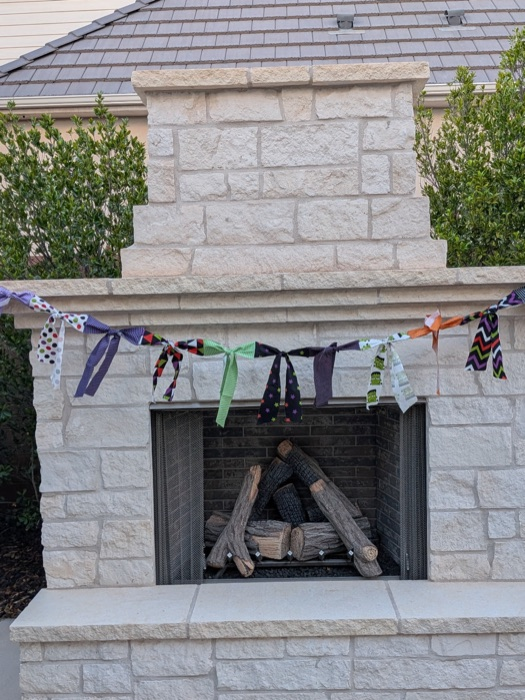
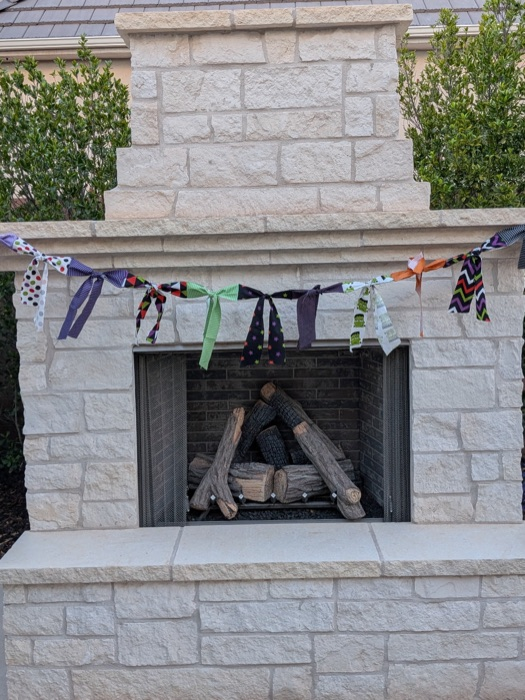
Strip the shop back: names and prices, no numbers, no measurements
The hero plate says Halloween, because Halloween is the drop that is on.
Fall comes back to the label when Fall comes back to the shop.

The hero description no longer counts sizes, and the strip beneath it is
centred and set larger — tightened so the five phrases hold one line instead
of orphaning a divider on the wrap.

Clicking a piece now shows its name, its price, and that there is one of it.
The SKU line, the cloth line and the spec list are gone: the photograph does
the describing.

Bows no longer carry a number in the shop. "Cobweb" is the identifier — she
knows what has sold by its name, not by No. 2 of 8.

Garland is recropped centred on the fireplace; the old crop sat left of it
and cut the end off the run.

diff --git a/js/main.js b/js/main.js
@@ -436,7 +436,8 @@
     const p = entry.lead;
     const sizes = entry.sizes;
     const sold = p.stock < 1;
-    const stockNote = sold ? 'Sold' : (p.edition ? 'No. ' + p.edition : p.stock + ' left');
+    const stockNote = sold ? 'Sold'
+      : (p.category === 'bows' ? 'One of one' : p.stock + ' left');
 
     /* Sizes for a grouped sweatshirt. A size that has gone is shown and
        disabled rather than hidden — the gaps are the scarcity. */
@@ -680,24 +681,16 @@
     const s = SIZES[p.size];
     qvLast = document.activeElement;
     $('#qv-art').innerHTML = window.bowMarkup(p, null, { full: true, sizes: '(max-width:1000px) 88vw, 400px' });
-    $('#qv-no').textContent = p.sku;
     $('#qv-name').textContent = p.name;
     $('#qv-price').textContent = money(p.price);
-    $('#qv-fab').textContent = p.category === 'sweatshirts'
-      ? p.colour + ' · ' + APPAREL[p.apparel].label
-      : 'Cloth is chosen as it is cut. This one is ' + p.edition + ' at this size.';
-    $('#qv-spec').innerHTML = p.category === 'sweatshirts'
-      ? `<dt>Size</dt><dd>${APPAREL[p.apparel].label}</dd>` +
-        `<dt>Colour</dt><dd>${p.colour}</dd>` +
-        `<dt>Made</dt><dd>${p.stock > 1 ? p.stock + ' of this size' : 'One of this size, and no more'}</dd>`
-      : `<dt>Made</dt><dd>${p.edition ? 'No. ' + p.edition + ', and never again' : 'One of one'}</dd>` +
-        `<dt>Cloth</dt><dd>Cut and sewn by hand, never glued</dd>` +
-        `<dt>Hanger</dt><dd>Leather strap, fits a standard wreath hook</dd>`;
+
+    /* Name, price, and how few there are. Nothing else — she would rather
+       the photograph did the describing. */
     const stock = $('#qv-stock');
-    stock.textContent = p.stock < 1
-      ? 'Sold. That one is finished for good.'
-      : p.stock === 1 ? 'One of one. When it goes, it is gone.'
-      : p.stock + ' left.';
+    stock.textContent = p.stock < 1 ? 'Sold'
+      : (p.category === 'sweatshirts'
+        ? (p.colour + ' \u00b7 ' + APPAREL[p.apparel].label + (p.stock > 1 ? ' \u00b7 ' + p.stock + ' made' : ' \u00b7 one of one'))
+        : 'One of one');
     stock.classList.toggle('low', p.stock > 0 && p.stock <= 2);
     const add = $('#qv-add');
     add.setAttribute('data-add', p.sku);

diff --git a/index.html b/index.html
@@ -299,7 +299,7 @@
         <span class="wipe">Sewn true,</span>
         <span class="wipe"><em>one at a time.</em></span>
       </h1>
-      <p class="lede reveal">Fabric door bows cut from real cloth and finished by hand. Five sizes.
+      <p class="lede reveal">Fabric door bows cut from real cloth and finished by hand.
         Small batches. When a bolt runs out, that bow is finished for good.</p>
       <div class="hero-cta reveal">
         <a class="btn btn-solid" href="#shop">Shop the drop</a>
@@ -586,11 +586,8 @@
     <button type="button" class="qv-close" data-qv-close aria-label="Close">Close</button>
     <div class="qv-art" id="qv-art"></div>
     <div class="qv-body">
-      <p class="eyebrow" id="qv-no"></p>
       <h2 class="display" id="qv-name"></h2>
       <p class="qv-price" id="qv-price"></p>
-      <p class="qv-fab" id="qv-fab"></p>
-      <dl class="qv-spec" id="qv-spec"></dl>
       <p class="qv-stock" id="qv-stock"></p>
       <button class="btn btn-solid wide" type="button" id="qv-add">Add to basket</button>
     </div>

diff --git a/css/main.css b/css/main.css
@@ -140,9 +140,9 @@ html.js .reveal{opacity:0;transform:translateY(14px)}
 .hero-thread{position:absolute;left:0;right:0;top:min(46vh,420px);height:340px;color:var(--rule-2);
   z-index:-1;pointer-events:none}
 
-.tape{display:flex;flex-wrap:wrap;gap:0;margin:clamp(40px,6vw,80px) 0 0;padding:14px 0;
+.tape{display:flex;flex-wrap:wrap;row-gap:4px;justify-content:center;text-align:center;margin:clamp(40px,6vw,80px) auto 0;padding:20px 0;
   border-top:1px solid var(--rule);border-bottom:1px solid var(--rule)}
-.tape span{font-size:.68rem;letter-spacing:.24em;text-transform:uppercase;color:var(--muted);padding:0 clamp(10px,2.2vw,26px)}
+.tape span{font-size:clamp(.78rem,1.05vw,.92rem);letter-spacing:.16em;text-transform:uppercase;color:var(--muted);padding:0 clamp(9px,1.5vw,20px)}
 .tape span+span{border-left:1px solid var(--rule)}
 
 /* -- noir sections -------------------------------------------------------- */

diff --git a/js/config.js b/js/config.js
@@ -49,7 +49,9 @@ const SITE = {
 const SEASONS = {
 
   'fall-halloween': {
-    name: 'Fall & Halloween',
+    /* The label on the hero plate and in the reel caption. Only Halloween is
+       showing, so that is what it says. */
+    name: 'Halloween',
     /* Harvest first, spooky second. The season warms the paper and swaps the
        accent to ember; the bones of the site stay black, bone and grain. */
     tint: {
